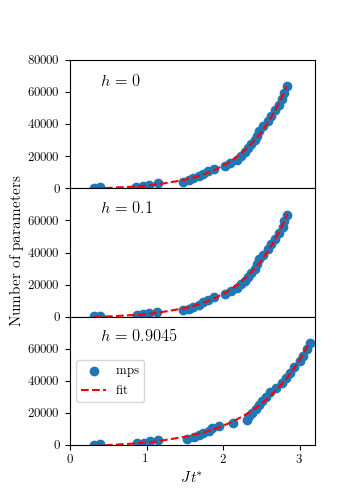
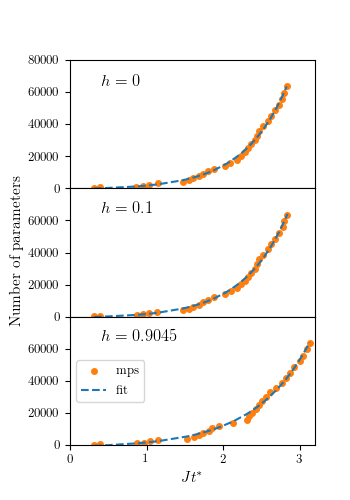
update curvefit

diff --git a/3_state_approx/plot_Npara_T_curvefit.py b/3_state_approx/plot_Npara_T_curvefit.py
@@ -9,6 +9,11 @@ from matplotlib.ticker import MaxNLocator # added
 import seaborn as sns
 # sns.set()
 # sns.set_style("whitegrid", {'axes.grid' : False})
+current_palette = sns.color_palette()
+
+color_dot = current_palette[1]
+color_fit = current_palette[0]
+markersize = 4.
 
 
 def exp_f(x, a, b, c):
@@ -71,14 +76,14 @@ if __name__ == '__main__':
 
     mps_list.append( (2.83, chi_2_Npara(32)) )
 
-    ax1.plot(*zip(*mps_list), 'o', label='mps')
+    ax1.plot(*zip(*mps_list), 'o', markersize=markersize, color=color_dot, label='mps')
 
     x_data, y_data = zip(*mps_list)
     x_data = np.array(x_data)
     y_data = np.array(y_data)
 
     popt, pcov = curve_fit(exp_f, x_data, y_data)
-    ax1.plot(x_data, exp_f(x_data, *popt), 'r--',
+    ax1.plot(x_data, exp_f(x_data, *popt), '--', color=color_fit,
              label='fit' # : a=%g, b=%g, c=%g' % tuple(popt)
             )
 
@@ -133,7 +138,7 @@ if __name__ == '__main__':
 
     mps_list.append( (2.84, chi_2_Npara(32)) )
 
-    ax2.plot(*zip(*mps_list), 'o', label='mps')
+    ax2.plot(*zip(*mps_list), 'o', markersize=markersize, color=color_dot, label='mps')
 
 
     x_data, y_data = zip(*mps_list)
@@ -141,7 +146,7 @@ if __name__ == '__main__':
     y_data = np.array(y_data)
 
     popt, pcov = curve_fit(exp_f, x_data, y_data)
-    ax2.plot(x_data, exp_f(x_data, *popt), 'r--',
+    ax2.plot(x_data, exp_f(x_data, *popt), '--', color=color_fit,
              label='fit'  #: a=%g, b=%g, c=%g' % tuple(popt)
             )
 
@@ -197,7 +202,7 @@ if __name__ == '__main__':
 
     mps_list.append( (3.13, chi_2_Npara(32)) )
 
-    ax3.plot(*zip(*mps_list), 'o', label='mps')
+    ax3.plot(*zip(*mps_list), 'o', markersize=markersize, color=color_dot, label='mps')
 
 
     x_data, y_data = zip(*mps_list)
@@ -205,7 +210,7 @@ if __name__ == '__main__':
     y_data = np.array(y_data)
 
     popt, pcov = curve_fit(exp_f, x_data, y_data)
-    ax3.plot(x_data, exp_f(x_data, *popt), 'r--',
+    ax3.plot(x_data, exp_f(x_data, *popt), '--', color=color_fit,
              label='fit'  # : a=%g, b=%g, c=%g' % tuple(popt)
             )
 
